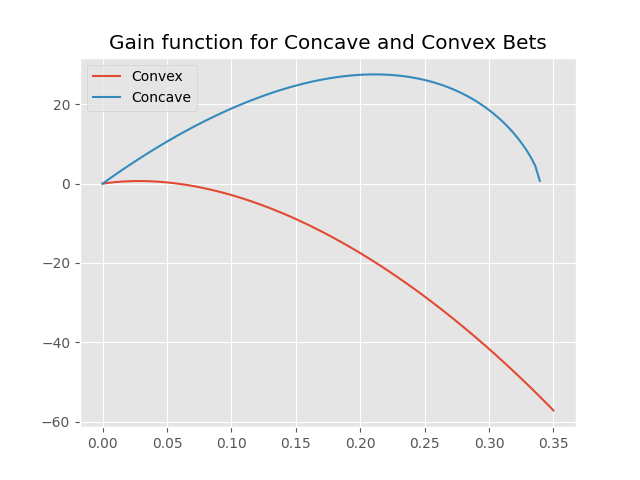
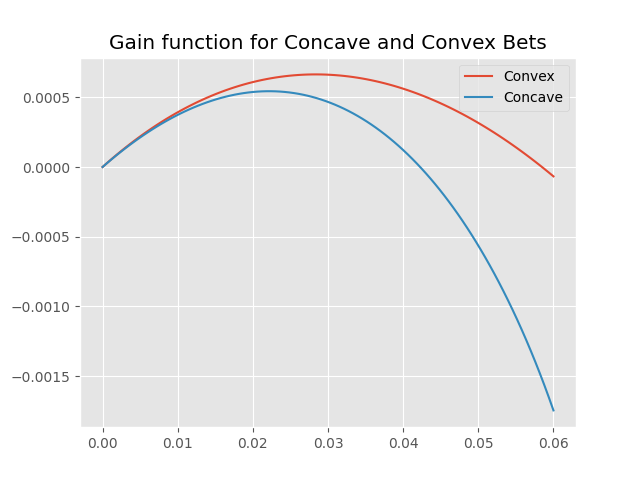
Normalized integration for gain function.

diff --git a/main.py b/main.py
@@ -2,15 +2,45 @@
 
 # Press Shift+F10 to execute it or replace it with your code.
 # Press Double Shift to search everywhere for classes, files, tool windows, actions, and settings.
+import numpy as np
+from gainFunction import get_gain_function
+import matplotlib.pyplot as plt
+from random import random, seed
 
+# create the random distributions
 
-def print_hi(name):
-    # Use a breakpoint in the code line below to debug your script.
-    print(f'Hi, {name}')  # Press Ctrl+F8 to toggle the breakpoint.
-
-
+def get_fat_tail(mu, sigma1, sigma2, n):
+    '''Returns an np array of a cauchy distribution with n samples'''
+    seed(42)
+    random_state = np.random.RandomState(seed=42)
+    dist = []
+    i = 0
+    while i < n:
+        value = random()
+        if value > 0.9:
+            dist.append(random_state.normal(mu, sigma1))
+            i += 1
+        else:
+            dist.append(random_state.normal(mu, sigma2))
+            i += 1
+    return dist
 # Press the green button in the gutter to run the script.
 if __name__ == '__main__':
-    print_hi('PyCharm')
+
+    d1 = get_fat_tail(0, 1, 3, 500)
+    d2 = get_fat_tail(0, 1, 3, 1000)
+    d3 = get_fat_tail(0, 1, 3, 5000)
+    x1 = get_gain_function(d1, 'convex', 0.05, f_max=0.0075)
+    x2 = get_gain_function(d2, 'convex', 0.05, f_max=0.0075)
+    x3 = get_gain_function(d3, 'convex', 0.05, f_max=0.0075)
+
+    plt.plot(x1[0], x1[1], label='100 Samples')
+    plt.plot(x2[0], x2[1], label='500 Samples')
+    plt.plot(x3[0], x3[1], label='1000 Samples')
+    plt.title("Gain function at various sample sizes")
+    plt.legend()
+    plt.savefig('comparison.png')
+    plt.show()
+
 
 # See PyCharm help at https://www.jetbrains.com/help/pycharm/

diff --git a/gainFunction.py b/gainFunction.py
@@ -4,7 +4,7 @@ import numpy as np
 import matplotlib.pyplot as plt
 plt.style.use('ggplot')
 
-def get_gain_function(dist, payoff_type, edge, cutoff=-3):
+def get_gain_function(dist, payoff_type, edge, cutoff=-30, f_max=0.06):
     payoff = []
     # concave vs convex:
     if payoff_type == 'concave':
@@ -33,7 +33,7 @@ def get_gain_function(dist, payoff_type, edge, cutoff=-3):
     payoff = filter(lambda z: z > cutoff, payoff)
     payoff = list(payoff)
 
-    f = np.linspace(0, 0.35, 100)
+    f = np.linspace(0, f_max, 100)
 
     # get gain function
     g_list = []
@@ -42,7 +42,7 @@ def get_gain_function(dist, payoff_type, edge, cutoff=-3):
         for j in payoff:
             obs = np.log(1 + i * j)
             int_vector.append(obs)
-        gain = simps(int_vector)
+        gain = simps(int_vector)/(len(dist))
         g_list.append(gain)
 
     return (f, g_list)
@@ -65,3 +65,5 @@ if __name__ == '__main__':
     x1 = get_gain_function(s, 'convex', 0.05)
     x2 = get_gain_function(s, 'concave', 0.05)
     plot_gain_function(x1, x2, "Convex", "Concave")
+
+

diff --git a/monteCarlo.py b/monteCarlo.py
@@ -1,0 +1,34 @@
+import pandas as pd
+import matplotlib.pyplot as plt
+import numpy as np
+from statistics import mean
+
+def gen_simulation(payoff_type, runs, edge, starting_cap):
+    mu=0
+    sigma=1
+    rs = np.random.RandomState(seed=42)
+    dist = rs.normal(mu, sigma, 1000)
+    exp_concave=[-(j**2) for j in dist]
+    exp_concave = mean(exp_concave)
+
+    exp_convex = [j**2 for j in dist]
+    exp_convex=mean(exp_convex)
+
+    sim_list=[]
+    i = 0
+    while i < runs:
+        if payoff_type == 'concave':
+            for row in dist:
+                sim_list.append(exp_concave*(1+edge)-row**2)
+            i += 1
+        else:
+            for row in dist:
+                sim_list.append(-exp_convex*(1-edge)+row**2)
+            i += 1
+    sim_list=np.cumsum(sim_list)
+    return sim_list
+
+if __name__ == '__main__':
+    x = gen_simulation('convex', 100, 0.05)
+    plt.plot(x)
+    plt.show()
